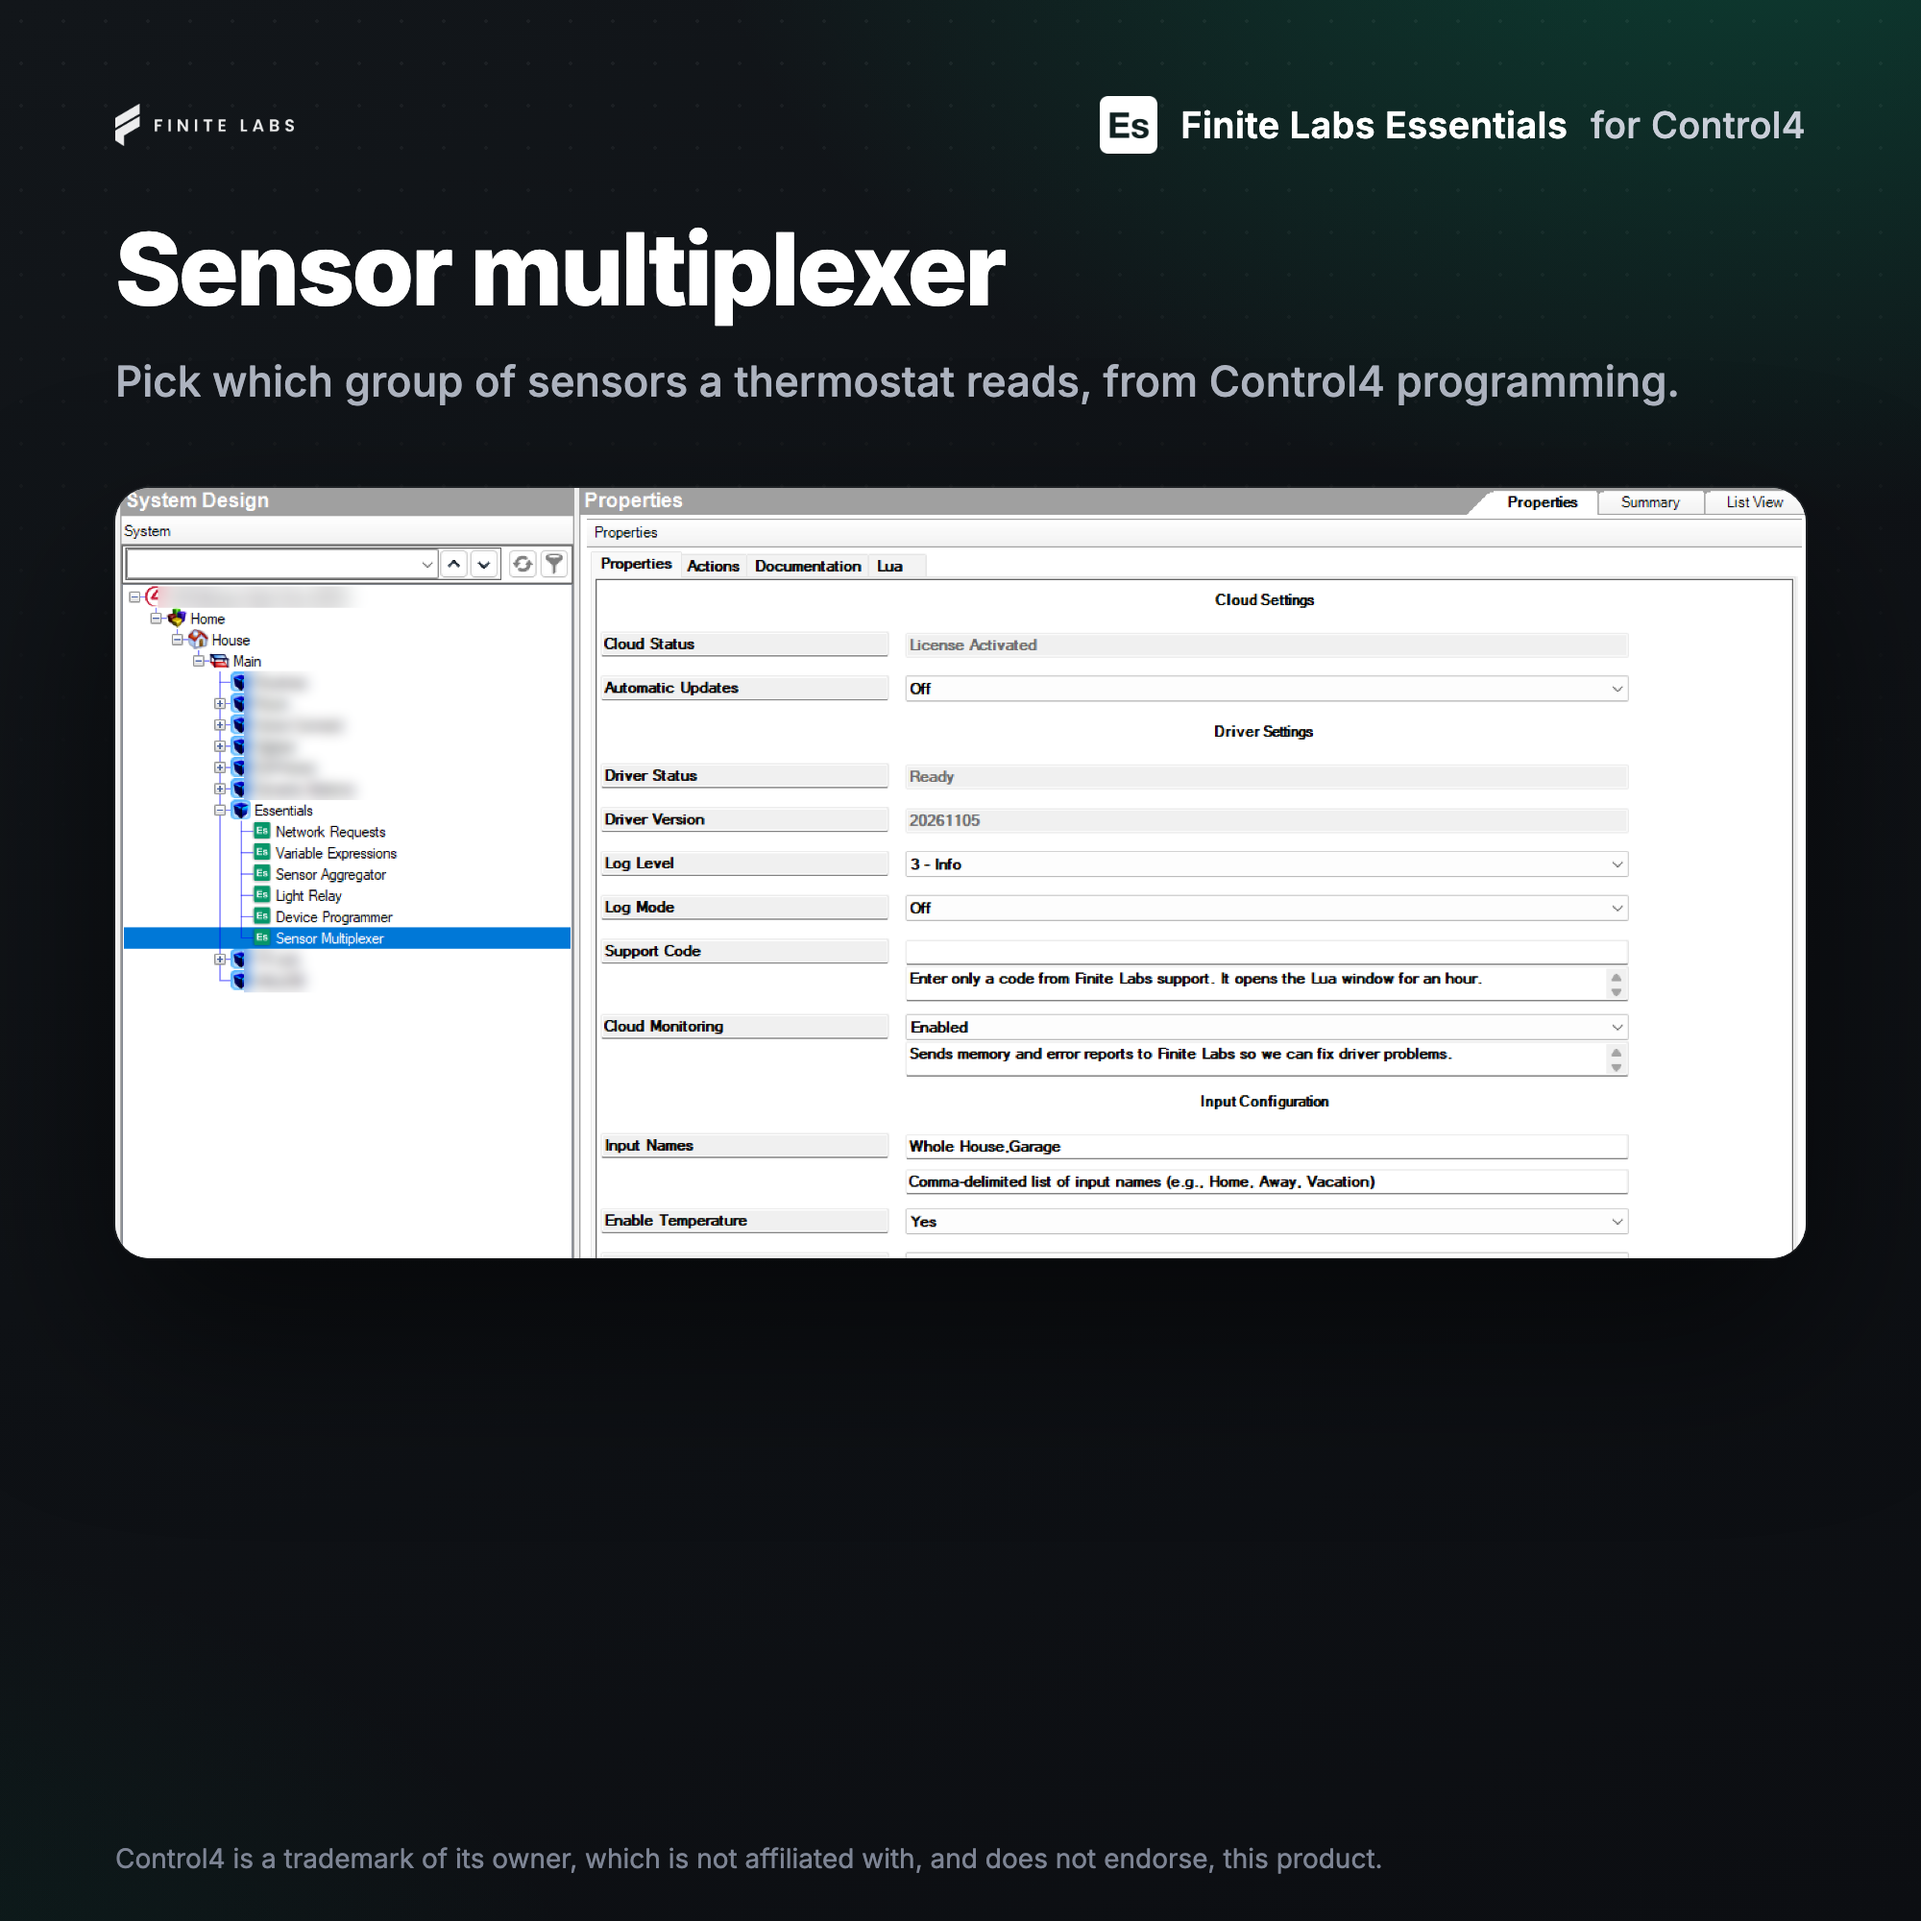
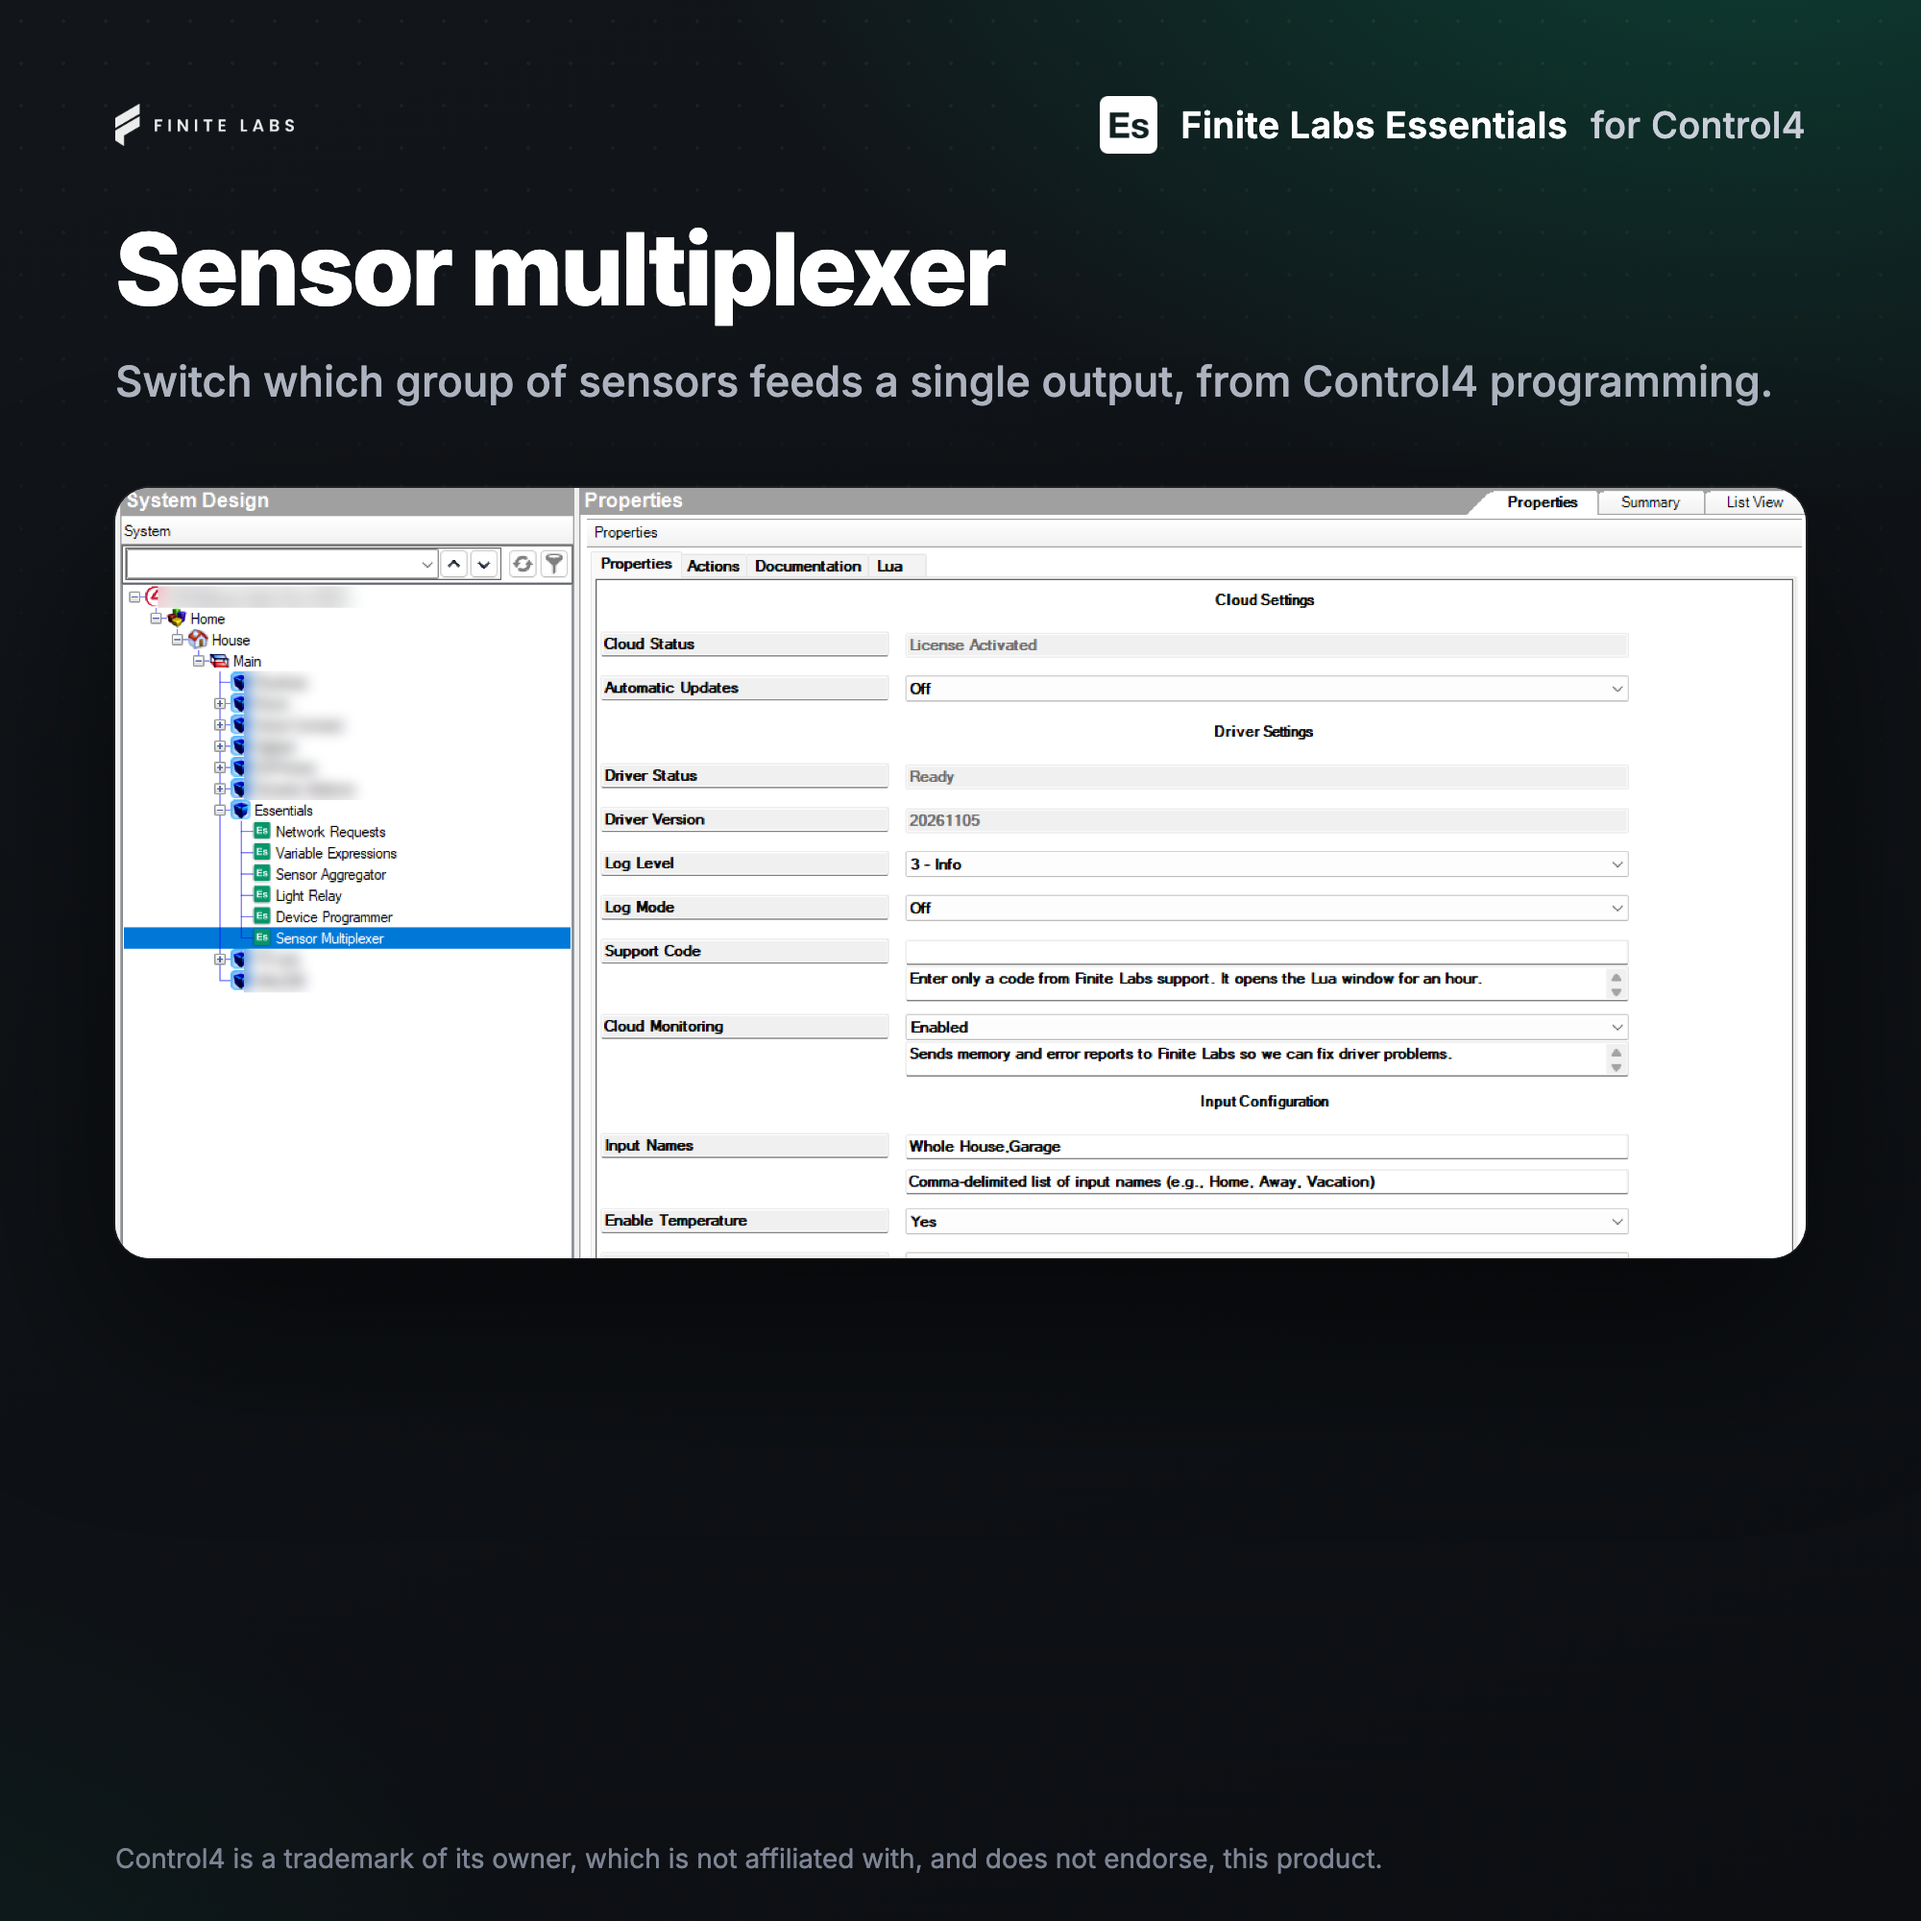
docs: the DriverCentral changelog starts at v20261112, and listing photos 9 and 10 read plainly

Changed region(s): [[0.062, 0.186, 0.93, 0.217]]

diff --git a/CHANGELOG.md b/CHANGELOG.md
@@ -18,19 +18,20 @@ Template for a new release entry (copy below the heading, fill in, uncomment):
 - Removed
 -->
 
-## v20261112 - 2026-11-12
-
 <!-- #ifdef DRIVERCENTRAL -->
+
+## v20261112 - 2026-11-12
 
 ### Added
 
-- Added a Support Code property to every driver, which lets Finite Labs support
-  open the driver's Lua tab and its Trace and Ultra log levels for an hour.
-- Added Cloud Monitoring, Enabled by default, which sends Finite Labs each
-  driver's memory use every hour and each error it hits, and a Diagnostics
-  Snapshot action.
+- Added the Device Programmer, Light Relay, Network Requests, Sensor Aggregator,
+  Sensor Multiplexer and Variable Expressions drivers to DriverCentral.
 
 <!-- #endif -->
+
+<!-- #ifndef DRIVERCENTRAL -->
+
+## v20261112 - 2026-11-12
 
 ### Fixed
 
@@ -116,3 +117,5 @@ Template for a new release entry (copy below the heading, fill in, uncomment):
 - Initial release of Sensor Aggregator.
 - Initial release of Sensor Multiplexer.
 - Initial release of Variable Expressions.
+
+<!-- #endif -->

diff --git a/resources/drivercentral/description.md b/resources/drivercentral/description.md
@@ -32,13 +32,12 @@ you choose.
 
 ### Sensor Multiplexer
 
-Passes one of several named groups of sensors through to its outputs, picked
-from programming, to give a thermostat a different temperature source in each
-mode.
+Passes one of several named groups of sensors through to a single set of
+outputs, switched from programming.
 
 ### Device Programmer
 
-Virtual temperature, humidity and contact sensors and relays, named in its
+Virtual temperature, humidity, contact and relay devices, named in its
 properties and set from programming, that keep their values across restarts.
 
 ### Light Relay
